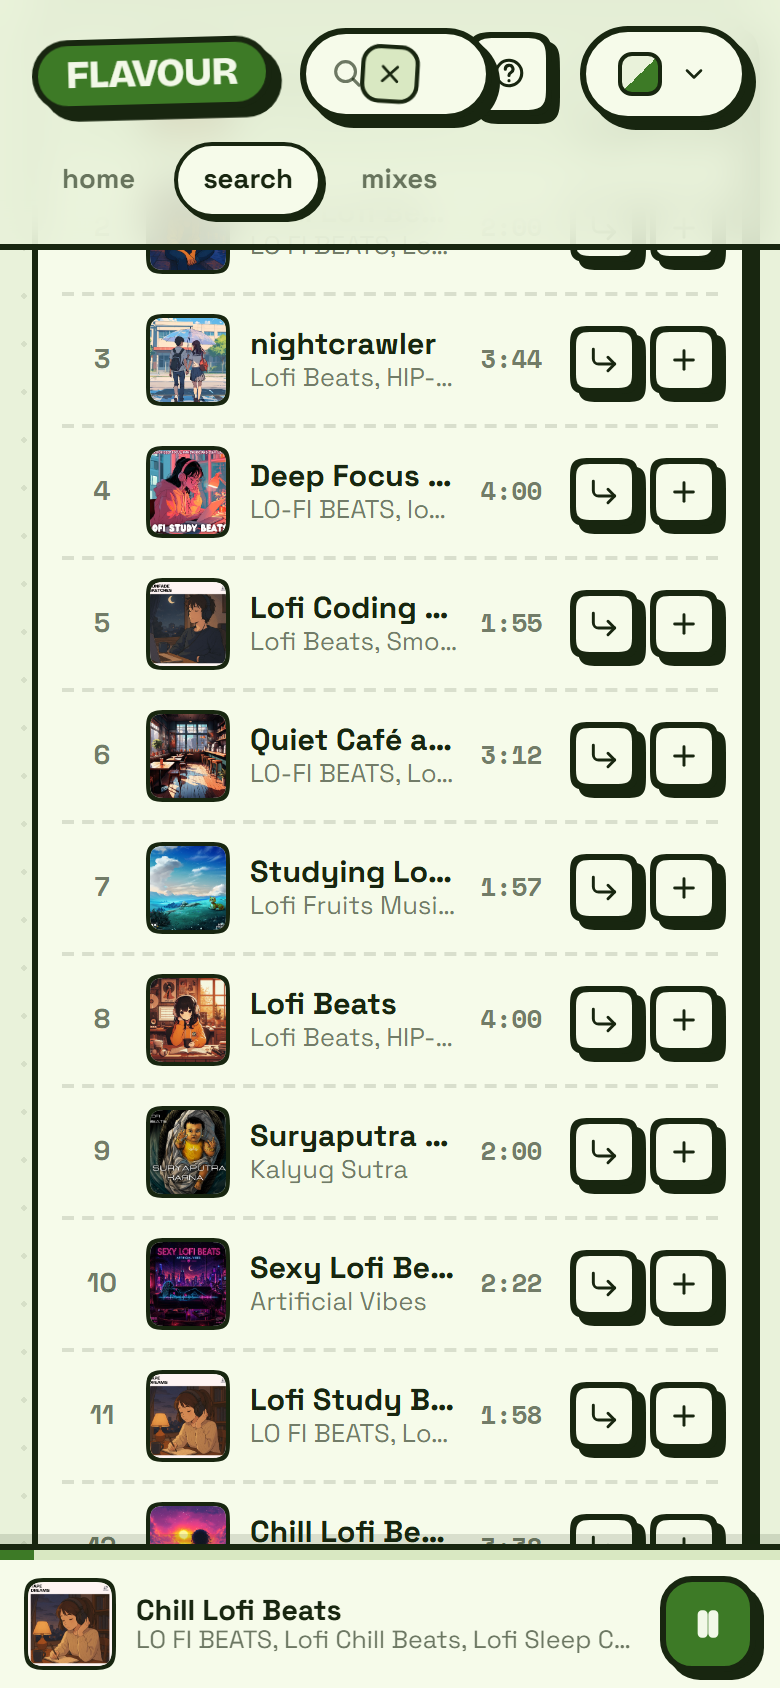
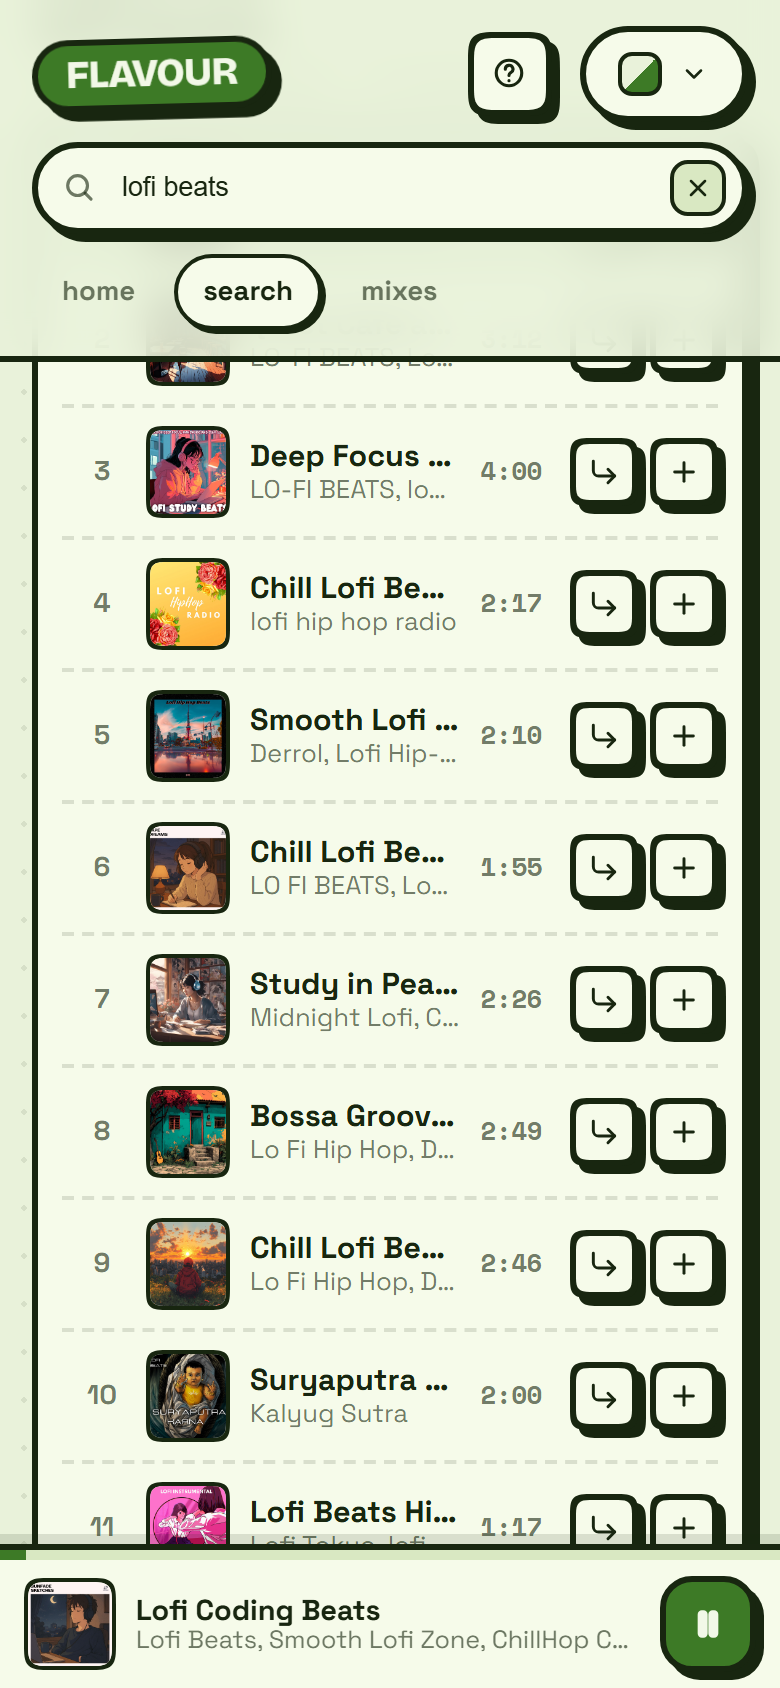
Give phones a full-width search row, refresh screenshots

diff --git a/src/routes/+layout.svelte b/src/routes/+layout.svelte
@@ -376,6 +376,21 @@
 			order: 3;
 		}
 	}
+	@media (max-width: 640px) {
+		/* the field drops to its own full-width row — squeezed into the first
+		   row it had no room to show what you were typing */
+		.search-slot {
+			order: 2;
+			flex-basis: 100%;
+		}
+		.help {
+			order: 1;
+			margin-left: auto;
+		}
+		.picker-slot {
+			order: 1;
+		}
+	}
 	@media (max-width: 700px) {
 		.now {
 			display: none;

diff --git a/src/lib/components/SearchField.svelte b/src/lib/components/SearchField.svelte
@@ -547,14 +547,16 @@
 		}
 	}
 	@media (max-width: 640px) {
+		.searchwrap {
+			width: 100%;
+		}
 		.slash {
 			display: none;
 		}
 		.panel {
-			position: fixed;
-			top: 122px;
-			left: 10px;
-			right: 10px;
+			top: calc(100% + 10px);
+			left: 0;
+			right: 0;
 		}
 	}
 </style>
